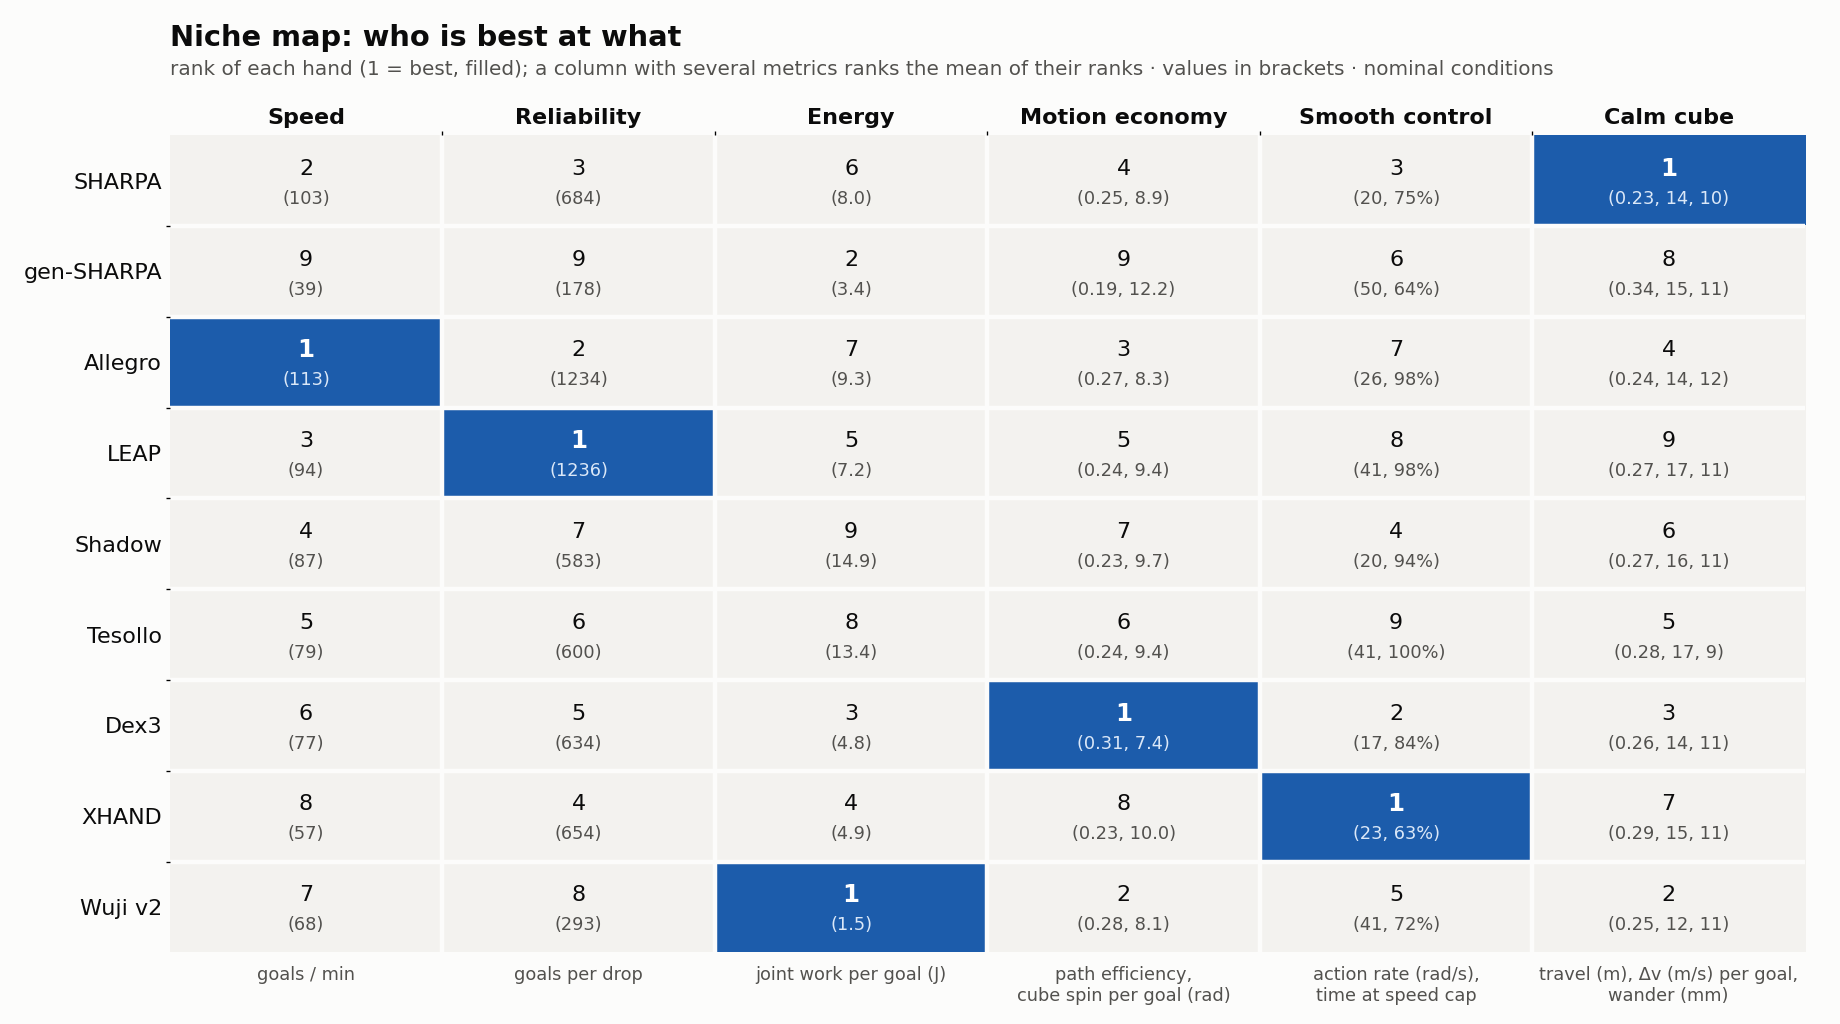
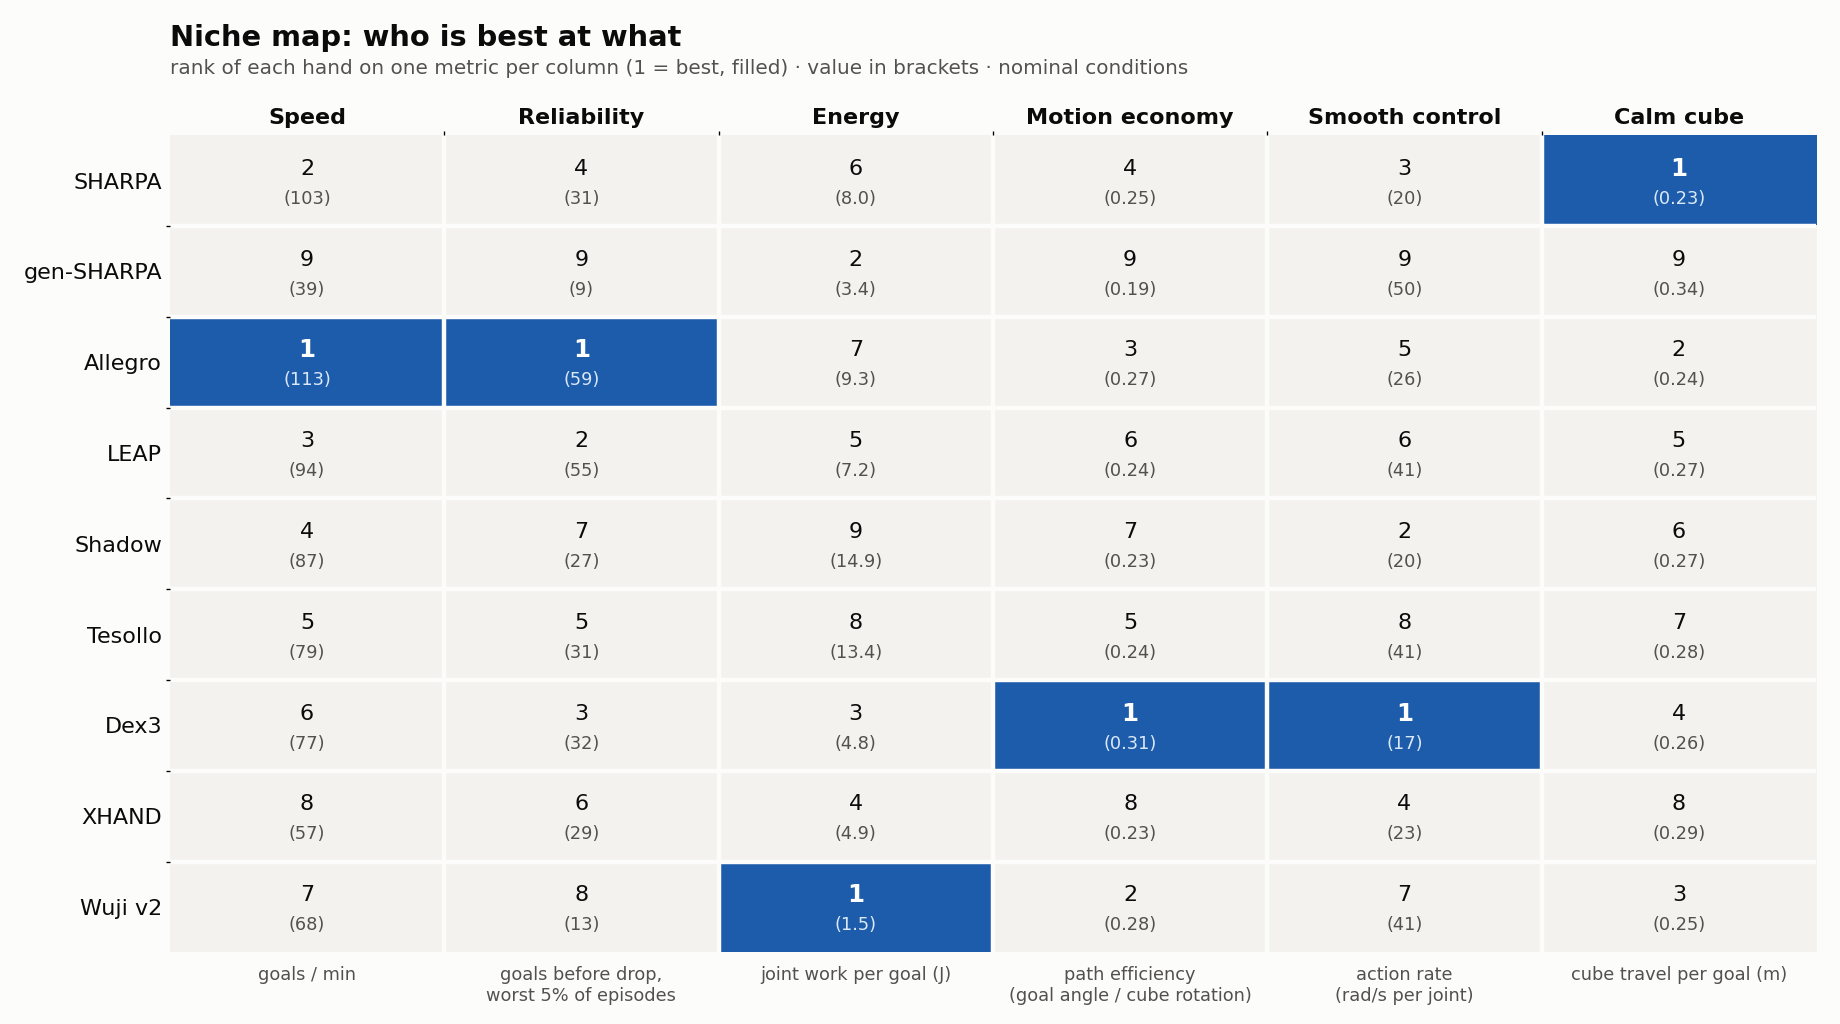
Embodiment niches: goals-before-drop (5-minute runs); niche map uses one metric per column
Claude-Session: https://claude.ai/code/session_01VEjfLD7vkNCwPYPC2HsL71

diff --git a/experiments/01oct_embodiment_niches/analysis/plot_main.py b/experiments/01oct_embodiment_niches/analysis/plot_main.py
@@ -48,19 +48,16 @@ def _robust(R, h):
     return float(np.mean([R[f"{h}__{c}"]["goals_per_min"] / R[f"{h}__nominal"]["goals_per_min"] for c in CONDS]))
 
 
-# (column, units of the values shown, [(getter, higher is better, value format)])
+# One metric per column: (column, metric and unit, [(getter, higher is better, value format)]).
 COMPOSITES = [
     ("Speed", "goals / min", [(lambda d: d["goals_per_min"], True, "{:.0f}")]),
-    ("Reliability", "goals per drop", [(lambda d: d["goals_per_drop"], True, "{:.0f}")]),
+    # From the 5-minute nominal runs; the literal minimum is 0 for 8 of 9 hands.
+    ("Reliability", "goals before drop,\nworst 5% of episodes", [(lambda d: d["_gbd"]["p5"], True, "{:.0f}")]),
     ("Energy", "joint work per goal (J)", [(lambda d: d["work_per_goal_J"], False, "{:.1f}")]),
-    ("Motion economy", "path efficiency,\ncube spin per goal (rad)",
-     [(lambda d: d["path_efficiency"], True, "{:.2f}"), (_per_goal("obj_spin_mean"), False, "{:.1f}")]),
-    ("Smooth control", "action rate (rad/s),\ntime at speed cap",
-     [(lambda d: d["target_rate_rad_s_per_joint"], False, "{:.0f}"),
-      (lambda d: d["joint_speed_saturated_frac"], False, "{:.0%}")]),
-    ("Calm cube", "travel (m), Δv (m/s) per goal,\nwander (mm)",
-     [(_per_goal("obj_speed_mean"), False, "{:.2f}"), (_per_goal("obj_acc_mean"), False, "{:.0f}"),
-      (lambda d: 1000 * d["palm_dist_std"], False, "{:.0f}")]),
+    ("Motion economy", "path efficiency\n(goal angle / cube rotation)",
+     [(lambda d: d["path_efficiency"], True, "{:.2f}")]),
+    ("Smooth control", "action rate\n(rad/s per joint)", [(lambda d: d["target_rate_rad_s_per_joint"], False, "{:.0f}")]),
+    ("Calm cube", "cube travel per goal (m)", [(_per_goal("obj_speed_mean"), False, "{:.2f}")]),
 ]
 
 
@@ -75,6 +72,8 @@ def _rank(vals, higher):
 
 def niche_map(R, hands):
     import numpy as np
+    for h in hands:
+        R[f"{h}__nominal"]["_gbd"] = json.loads((D / f"{h}__nominal_5min.json").read_text())["goals_before_drop"]
     cols, ranks, labels = [], [], []
     for name, sub, comps in COMPOSITES:
         raw = [[g(R[f"{h}__nominal"]) for h in hands] for g, _, _ in comps]
@@ -104,8 +103,8 @@ def niche_map(R, hands):
     _style(ax)
     ax.set_title("Niche map: who is best at what", loc="left", fontsize=13, color=INK,
                  fontweight="semibold", pad=40)
-    ax.text(0, 1.075, "rank of each hand (1 = best, filled); a column with several metrics ranks the "
-            "mean of their ranks · values in brackets · nominal conditions", transform=ax.transAxes,
+    ax.text(0, 1.075, "rank of each hand on one metric per column (1 = best, filled) · value in brackets · "
+            "nominal conditions", transform=ax.transAxes,
             fontsize=9, color=INK2)
     fig.tight_layout()
     fig.savefig(OUT / "niche_map.png", dpi=160, facecolor=SURFACE)

diff --git a/experiments/01oct_embodiment_niches/README.md b/experiments/01oct_embodiment_niches/README.md
@@ -46,3 +46,13 @@ Bar charts (one per metric, one bar per hand; darker = best): `plots/details/`, 
 Main figures: `plots/niche_map.png` (rank of every hand on every metric), `plots/speed_vs_energy.png`
 (Pareto front), `plots/robustness.png` (throughput kept per perturbation) -- `analysis/plot_main.py`.
 Per-metric bar charts: `plots/details/`.
+
+## Goals before drop (5-minute nominal runs, `<hand>__nominal_5min.json`)
+
+Literal minimum is 0 for 8/9 hands (a few episodes drop while the cube settles after reset); LEAP's
+is 4. Worst-5% of episodes (Kaplan-Meier, censored episodes counted): allegro 59, leap 55, dex3 32,
+sharpa 31, tesollo 31, xhand 29, shadow 27, wuji2 13, gen-SHARPA 9. Allegro's failures are mostly
+stalls (1579 timeouts vs 509 drops in 5 min); LEAP has the fewest of both (274 / 420).
+
+Niche map (`plots/niche_map.png`): one metric per column -- goals/min, goals before drop (worst
+5%), joint work per goal, path efficiency, action rate, cube travel per goal.
